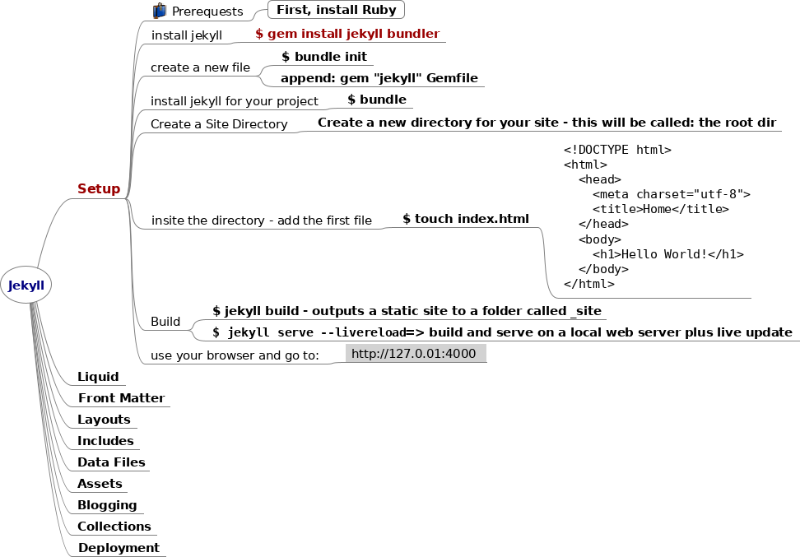
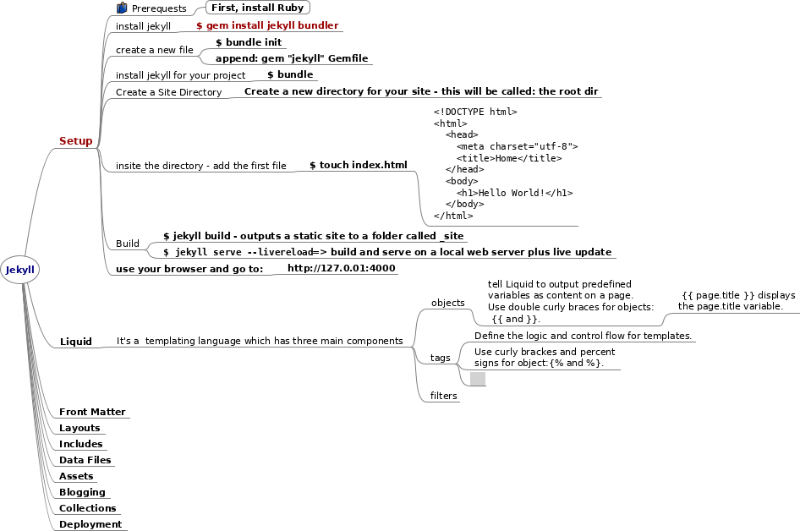
adding image

Changed region(s): [[0.0, 0.0, 1.0, 1.0], [0.0625, 0.2411, 0.125, 0.3013]]

diff --git a/Jekyll.mm b/Jekyll.mm
@@ -1,43 +1,105 @@
-<map version="1.1.0">
-<!-- To view this file, download free mind mapping software FreeMind from http://freemind.sourceforge.net -->
-<node COLOR="#000080" CREATED="1611935527952" ID="ID_1164545233" MODIFIED="1611935672618" TEXT="Jekyll">
-<font BOLD="true" NAME="SansSerif" SIZE="12"/>
-<node COLOR="#990000" CREATED="1611935557827" ID="ID_1422544204" MODIFIED="1611939286344" POSITION="right" TEXT="Setup">
-<font BOLD="true" NAME="SansSerif" SIZE="13"/>
-<node CREATED="1611935897442" ID="ID_1510029765" MODIFIED="1611936116006" TEXT="Prerequests">
+<map version="freeplane 1.7.0">
+<!--To view this file, download free mind mapping software Freeplane from http://freeplane.sourceforge.net -->
+<node TEXT="Jekyll" FOLDED="false" ID="ID_1164545233" CREATED="1611935527952" MODIFIED="1611935672618" COLOR="#000080">
+<font NAME="SansSerif" SIZE="12" BOLD="true"/>
+<hook NAME="MapStyle" zoom="0.827">
+    <properties edgeColorConfiguration="#808080ff,#ff0000ff,#0000ffff,#00ff00ff,#ff00ffff,#00ffffff,#7c0000ff,#00007cff,#007c00ff,#7c007cff,#007c7cff,#7c7c00ff" fit_to_viewport="false"/>
+
+<map_styles>
+<stylenode LOCALIZED_TEXT="styles.root_node" STYLE="oval" UNIFORM_SHAPE="true" VGAP_QUANTITY="24.0 pt">
+<font SIZE="24"/>
+<stylenode LOCALIZED_TEXT="styles.predefined" POSITION="right" STYLE="bubble">
+<stylenode LOCALIZED_TEXT="default" ICON_SIZE="12.0 pt" COLOR="#000000" STYLE="fork">
+<font NAME="SansSerif" SIZE="10" BOLD="false" ITALIC="false"/>
+</stylenode>
+<stylenode LOCALIZED_TEXT="defaultstyle.details"/>
+<stylenode LOCALIZED_TEXT="defaultstyle.attributes">
+<font SIZE="9"/>
+</stylenode>
+<stylenode LOCALIZED_TEXT="defaultstyle.note" COLOR="#000000" BACKGROUND_COLOR="#ffffff" TEXT_ALIGN="LEFT"/>
+<stylenode LOCALIZED_TEXT="defaultstyle.floating">
+<edge STYLE="hide_edge"/>
+<cloud COLOR="#f0f0f0" SHAPE="ROUND_RECT"/>
+</stylenode>
+</stylenode>
+<stylenode LOCALIZED_TEXT="styles.user-defined" POSITION="right" STYLE="bubble">
+<stylenode LOCALIZED_TEXT="styles.topic" COLOR="#18898b" STYLE="fork">
+<font NAME="Liberation Sans" SIZE="10" BOLD="true"/>
+</stylenode>
+<stylenode LOCALIZED_TEXT="styles.subtopic" COLOR="#cc3300" STYLE="fork">
+<font NAME="Liberation Sans" SIZE="10" BOLD="true"/>
+</stylenode>
+<stylenode LOCALIZED_TEXT="styles.subsubtopic" COLOR="#669900">
+<font NAME="Liberation Sans" SIZE="10" BOLD="true"/>
+</stylenode>
+<stylenode LOCALIZED_TEXT="styles.important">
+<icon BUILTIN="yes"/>
+</stylenode>
+</stylenode>
+<stylenode LOCALIZED_TEXT="styles.AutomaticLayout" POSITION="right" STYLE="bubble">
+<stylenode LOCALIZED_TEXT="AutomaticLayout.level.root" COLOR="#000000" STYLE="oval" SHAPE_HORIZONTAL_MARGIN="10.0 pt" SHAPE_VERTICAL_MARGIN="10.0 pt">
+<font SIZE="18"/>
+</stylenode>
+<stylenode LOCALIZED_TEXT="AutomaticLayout.level,1" COLOR="#0033ff">
+<font SIZE="16"/>
+</stylenode>
+<stylenode LOCALIZED_TEXT="AutomaticLayout.level,2" COLOR="#00b439">
+<font SIZE="14"/>
+</stylenode>
+<stylenode LOCALIZED_TEXT="AutomaticLayout.level,3" COLOR="#990000">
+<font SIZE="12"/>
+</stylenode>
+<stylenode LOCALIZED_TEXT="AutomaticLayout.level,4" COLOR="#111111">
+<font SIZE="10"/>
+</stylenode>
+<stylenode LOCALIZED_TEXT="AutomaticLayout.level,5"/>
+<stylenode LOCALIZED_TEXT="AutomaticLayout.level,6"/>
+<stylenode LOCALIZED_TEXT="AutomaticLayout.level,7"/>
+<stylenode LOCALIZED_TEXT="AutomaticLayout.level,8"/>
+<stylenode LOCALIZED_TEXT="AutomaticLayout.level,9"/>
+<stylenode LOCALIZED_TEXT="AutomaticLayout.level,10"/>
+<stylenode LOCALIZED_TEXT="AutomaticLayout.level,11"/>
+</stylenode>
+</stylenode>
+</map_styles>
+</hook>
+<node TEXT="Setup" POSITION="right" ID="ID_1422544204" CREATED="1611935557827" MODIFIED="1611939286344" COLOR="#990000">
+<font NAME="SansSerif" SIZE="13" BOLD="true"/>
+<node TEXT="Prerequests" FOLDED="true" ID="ID_1510029765" CREATED="1611935897442" MODIFIED="1611936116006">
 <icon BUILTIN="desktop_new"/>
-<node CREATED="1611935941175" ID="ID_1436861756" MODIFIED="1611939264848" STYLE="bubble" TEXT="First, install Ruby">
-<font BOLD="true" NAME="SansSerif" SIZE="12"/>
+<node TEXT="First, install Ruby" ID="ID_1436861756" CREATED="1611935941175" MODIFIED="1611939264848" STYLE="bubble">
+<font NAME="SansSerif" SIZE="12" BOLD="true"/>
 </node>
 </node>
-<node CREATED="1611936122333" ID="ID_1770326009" MODIFIED="1611936142327" TEXT="install jekyll">
-<node COLOR="#990000" CREATED="1611936144490" ID="ID_593167089" MODIFIED="1611939227287" TEXT=" $ gem install jekyll bundler">
-<font BOLD="true" NAME="SansSerif" SIZE="12"/>
+<node TEXT="install jekyll" FOLDED="true" ID="ID_1770326009" CREATED="1611936122333" MODIFIED="1611936142327">
+<node TEXT=" $ gem install jekyll bundler" ID="ID_593167089" CREATED="1611936144490" MODIFIED="1611939227287" COLOR="#990000">
+<font NAME="SansSerif" SIZE="12" BOLD="true"/>
 </node>
 </node>
-<node CREATED="1611936269432" ID="ID_791110905" MODIFIED="1611936293166" TEXT="create a new file">
-<node CREATED="1611936293168" ID="ID_1314721961" MODIFIED="1611939229926" TEXT="$ bundle init">
-<font BOLD="true" NAME="SansSerif" SIZE="12"/>
+<node TEXT="create a new file" FOLDED="true" ID="ID_791110905" CREATED="1611936269432" MODIFIED="1611936293166">
+<node TEXT="$ bundle init" ID="ID_1314721961" CREATED="1611936293168" MODIFIED="1611939229926">
+<font NAME="SansSerif" SIZE="12" BOLD="true"/>
 </node>
-<node CREATED="1611936314208" ID="ID_1175755950" MODIFIED="1611939231990" TEXT="append: gem &quot;jekyll&quot; Gemfile">
-<font BOLD="true" NAME="SansSerif" SIZE="12"/>
-</node>
-</node>
-<node CREATED="1611936402604" ID="ID_1928439596" MODIFIED="1611936420748" TEXT="install jekyll for your project">
-<node CREATED="1611936422168" ID="ID_1477652243" MODIFIED="1611939223768" TEXT="$ bundle">
-<font BOLD="true" NAME="SansSerif" SIZE="12"/>
+<node TEXT="append: gem &quot;jekyll&quot; Gemfile" ID="ID_1175755950" CREATED="1611936314208" MODIFIED="1611939231990">
+<font NAME="SansSerif" SIZE="12" BOLD="true"/>
 </node>
 </node>
-<node CREATED="1611936437780" ID="ID_480680399" MODIFIED="1611936576865" TEXT="Create a Site Directory">
-<node CREATED="1611936448052" ID="ID_1418078116" MODIFIED="1611939236181" TEXT="Create a new directory for your site - this will be called: the root dir">
-<font BOLD="true" NAME="SansSerif" SIZE="12"/>
+<node TEXT="install jekyll for your project" FOLDED="true" ID="ID_1928439596" CREATED="1611936402604" MODIFIED="1611936420748">
+<node TEXT="$ bundle" ID="ID_1477652243" CREATED="1611936422168" MODIFIED="1611939223768">
+<font NAME="SansSerif" SIZE="12" BOLD="true"/>
 </node>
 </node>
-<node CREATED="1611936580822" ID="ID_141116202" MODIFIED="1611936610362" TEXT="insite the directory - add the first file">
-<node CREATED="1611936610364" ID="ID_378425498" MODIFIED="1611939274907" TEXT="$ touch index.html">
-<font BOLD="true" NAME="SansSerif" SIZE="12"/>
-<node CREATED="1611936622321" ID="ID_1294114300" MODIFIED="1611936665479">
-<richcontent TYPE="NODE"><html>
+<node TEXT="Create a Site Directory" FOLDED="true" ID="ID_480680399" CREATED="1611936437780" MODIFIED="1611936576865">
+<node TEXT="Create a new directory for your site - this will be called: the root dir" ID="ID_1418078116" CREATED="1611936448052" MODIFIED="1611939236181">
+<font NAME="SansSerif" SIZE="12" BOLD="true"/>
+</node>
+</node>
+<node TEXT="insite the directory - add the first file" FOLDED="true" ID="ID_141116202" CREATED="1611936580822" MODIFIED="1611936610362">
+<node TEXT="$ touch index.html" ID="ID_378425498" CREATED="1611936610364" MODIFIED="1611939274907">
+<font NAME="SansSerif" SIZE="12" BOLD="true"/>
+<node ID="ID_1294114300" CREATED="1611936622321" MODIFIED="1611936665479"><richcontent TYPE="NODE">
+
+<html>
   <head>
     
   </head>
@@ -58,12 +120,13 @@
 </node>
 </node>
 </node>
-<node CREATED="1611936675850" ID="ID_1120624667" MODIFIED="1611937578624" TEXT="Build">
-<node CREATED="1611939142384" ID="ID_1282354219" MODIFIED="1611939216598" TEXT="$ jekyll build - outputs a static site to a folder called _site">
-<font BOLD="true" NAME="SansSerif" SIZE="12"/>
+<node TEXT="Build" FOLDED="true" ID="ID_1120624667" CREATED="1611936675850" MODIFIED="1611943482151">
+<node TEXT="$ jekyll build - outputs a static site to a folder called _site" ID="ID_1282354219" CREATED="1611939142384" MODIFIED="1611943482150">
+<font NAME="SansSerif" SIZE="12" BOLD="true"/>
 </node>
-<node CREATED="1611939301395" ID="ID_706810900" MODIFIED="1611939507675">
-<richcontent TYPE="NODE"><html>
+<node ID="ID_706810900" CREATED="1611939301395" MODIFIED="1611939507675"><richcontent TYPE="NODE">
+
+<html>
   <head>
     
   </head>
@@ -74,39 +137,100 @@
   </body>
 </html>
 </richcontent>
-<font BOLD="true" NAME="SansSerif" SIZE="12"/>
+<font NAME="SansSerif" SIZE="12" BOLD="true"/>
 </node>
 </node>
-<node CREATED="1611939519424" ID="ID_510776356" MODIFIED="1611939548328" TEXT="use your browser and go to:">
-<node CREATED="1611939548330" ID="ID_17986107" MODIFIED="1611939562975" TEXT="http://127.0.01:4000"/>
+<node TEXT="use your browser and go to:" FOLDED="true" ID="ID_510776356" CREATED="1611939519424" MODIFIED="1611943485830">
+<font NAME="SansSerif" SIZE="12" BOLD="true"/>
+<node TEXT="http://127.0.01:4000" ID="ID_17986107" CREATED="1611939548330" MODIFIED="1611943485830">
+<font NAME="SansSerif" SIZE="12" BOLD="true"/>
 </node>
 </node>
-<node CREATED="1611935565092" ID="ID_1340521432" MODIFIED="1611939288031" POSITION="right" TEXT="Liquid">
-<font BOLD="true" NAME="SansSerif" SIZE="12"/>
 </node>
-<node CREATED="1611935614268" ID="ID_1607801081" MODIFIED="1611939289743" POSITION="right" TEXT="Front Matter">
-<font BOLD="true" NAME="SansSerif" SIZE="12"/>
+<node TEXT="Liquid" POSITION="right" ID="ID_1340521432" CREATED="1611935565092" MODIFIED="1611943495158">
+<font NAME="SansSerif" SIZE="12" BOLD="true"/>
+<node TEXT="It&apos;s a  templating language which has three main components" ID="ID_1962199768" CREATED="1611942636138" MODIFIED="1611943495156">
+<node TEXT="objects" ID="ID_991826831" CREATED="1611942669175" MODIFIED="1611942677677">
+<node TEXT="tell Liquid to output predefined &#xa;variables as content on a page. &#xa;Use double curly braces for objects:&#xa; {{ and }}." ID="ID_707938650" CREATED="1611942689460" MODIFIED="1611942773757">
+<node ID="ID_168793047" CREATED="1611942708949" MODIFIED="1611942817556"><richcontent TYPE="NODE">
+
+<html>
+  <head>
+    
+  </head>
+  <body>
+    <p>
+      &#160;{{ page.title }} displays<br />the page.title variable.
+    </p>
+  </body>
+</html>
+</richcontent>
 </node>
-<node CREATED="1611935622043" ID="ID_814201182" MODIFIED="1611939288655" POSITION="right" TEXT="Layouts">
-<font BOLD="true" NAME="SansSerif" SIZE="12"/>
 </node>
-<node CREATED="1611935625643" ID="ID_651868435" MODIFIED="1611939290399" POSITION="right" TEXT="Includes">
-<font BOLD="true" NAME="SansSerif" SIZE="12"/>
 </node>
-<node CREATED="1611935629738" ID="ID_1590690472" MODIFIED="1611939291935" POSITION="right" TEXT="Data Files">
-<font BOLD="true" NAME="SansSerif" SIZE="12"/>
+<node TEXT="tags" ID="ID_813400239" CREATED="1611942678586" MODIFIED="1611943322008">
+<node TEXT="Define the logic and control flow for templates." ID="ID_587915278" CREATED="1611942834357" MODIFIED="1611942862959"/>
+<node ID="ID_116260807" CREATED="1611942863883" MODIFIED="1611942922953"><richcontent TYPE="NODE">
+
+<html>
+  <head>
+    
+  </head>
+  <body>
+    <p>
+      Use curly brackes and percent<br />signs for object:{% and %}.&#160;&#160;
+    </p>
+  </body>
+</html>
+</richcontent>
 </node>
-<node CREATED="1611935635641" ID="ID_1937749418" MODIFIED="1611939291390" POSITION="right" TEXT="Assets">
-<font BOLD="true" NAME="SansSerif" SIZE="12"/>
+<node ID="ID_309029213" CREATED="1611943310536" MODIFIED="1611943431831"><richcontent TYPE="NODE">
+
+<html>
+  <head>
+    
+  </head>
+  <body>
+    <p>
+      <img src="https://i.imgur.com/6Sr5FR1.png" alt="tags.png"/>
+    </p>
+  </body>
+</html>
+
+</richcontent>
 </node>
-<node CREATED="1611935643063" ID="ID_1380946677" MODIFIED="1611939292749" POSITION="right" TEXT="Blogging">
-<font BOLD="true" NAME="SansSerif" SIZE="12"/>
 </node>
-<node CREATED="1611935650174" ID="ID_1104550325" MODIFIED="1611939294029" POSITION="right" TEXT="Collections">
-<font BOLD="true" NAME="SansSerif" SIZE="12"/>
+<node TEXT="filters" ID="ID_1961658380" CREATED="1611942681195" MODIFIED="1611942683251">
+<node TEXT="Filters change the output of a Liquid object. They are used within an output and are separated by a |." ID="ID_969387209" CREATED="1611944871523" MODIFIED="1611944876900"/>
+<node TEXT="displays Hi instead of hi" ID="ID_1277433092" CREATED="1611944884040" MODIFIED="1611944948631">
+<node TEXT="{{ &quot;hi&quot; | capitalize }}" ID="ID_1580304194" CREATED="1611944949701" MODIFIED="1611944957108"/>
 </node>
-<node CREATED="1611935653493" ID="ID_1259776834" MODIFIED="1611939293381" POSITION="right" TEXT="Deployment">
-<font BOLD="true" NAME="SansSerif" SIZE="12"/>
+</node>
+</node>
+</node>
+<node TEXT="Front Matter" POSITION="right" ID="ID_1607801081" CREATED="1611935614268" MODIFIED="1611939289743">
+<font NAME="SansSerif" SIZE="12" BOLD="true"/>
+</node>
+<node TEXT="Layouts" POSITION="right" ID="ID_814201182" CREATED="1611935622043" MODIFIED="1611939288655">
+<font NAME="SansSerif" SIZE="12" BOLD="true"/>
+</node>
+<node TEXT="Includes" POSITION="right" ID="ID_651868435" CREATED="1611935625643" MODIFIED="1611939290399">
+<font NAME="SansSerif" SIZE="12" BOLD="true"/>
+</node>
+<node TEXT="Data Files" POSITION="right" ID="ID_1590690472" CREATED="1611935629738" MODIFIED="1611939291935">
+<font NAME="SansSerif" SIZE="12" BOLD="true"/>
+</node>
+<node TEXT="Assets" POSITION="right" ID="ID_1937749418" CREATED="1611935635641" MODIFIED="1611939291390">
+<font NAME="SansSerif" SIZE="12" BOLD="true"/>
+</node>
+<node TEXT="Blogging" POSITION="right" ID="ID_1380946677" CREATED="1611935643063" MODIFIED="1611939292749">
+<font NAME="SansSerif" SIZE="12" BOLD="true"/>
+</node>
+<node TEXT="Collections" POSITION="right" ID="ID_1104550325" CREATED="1611935650174" MODIFIED="1611939294029">
+<font NAME="SansSerif" SIZE="12" BOLD="true"/>
+</node>
+<node TEXT="Deployment" POSITION="right" ID="ID_1259776834" CREATED="1611935653493" MODIFIED="1611939293381">
+<font NAME="SansSerif" SIZE="12" BOLD="true"/>
 </node>
 </node>
 </map>
